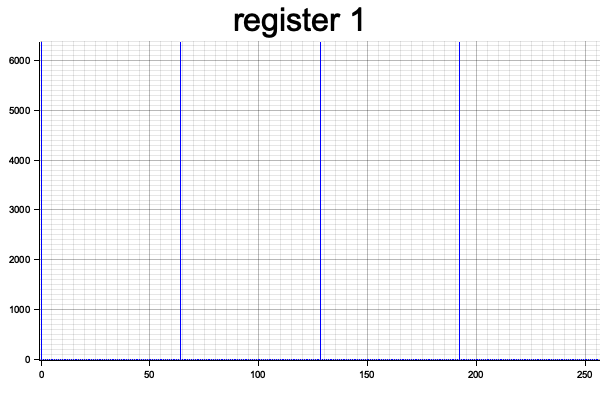
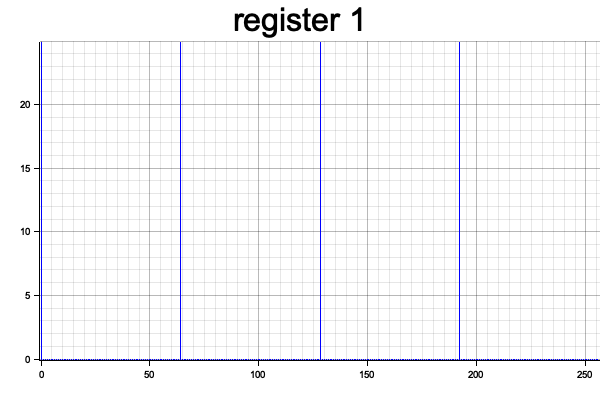
Fix normalization of rust fft

Changed region(s): [[0.0, 0.09, 0.99, 0.54], [0.0, 0.63, 0.99, 0.9], [0.03, 0.57, 0.99, 0.6]]

diff --git a/src/main.rs b/src/main.rs
@@ -13,8 +13,6 @@ mod baillie_psw_prime;
 mod prime_power_check;
 mod plots;
 
-
-
 use sieve_of_eratosthenes::sieve_of_eratosthenes;
 use is_even::is_even;
 use pseudo_prime::pseudo_prime;
@@ -37,7 +35,7 @@ fn main() {
     println!("Hello, Shor!");
 
     // Choose n to factorize
-    for n in [221_u64] {
+    for n in [15_u64, 35_u64, 69_u64, 221_u64] {
         println!("n = {}", n);
 
         // Step 1
@@ -91,6 +89,21 @@ fn main() {
                     let mut planner = FftPlanner::new();
                     let fft = planner.plan_fft_forward(reg1.len());
                     fft.process(&mut reg1);
+
+                    // re-normalize (needed for rustfft: https://docs.rs/rustfft/6.0.1/rustfft/)
+                    // TODO: check for correctness
+                    // TODO: can we vectorize this?
+                    let mut total_chance = 0.0;
+                    for i in 0..reg1.len() {
+                        total_chance += reg1[i].norm() * reg1[i].norm();
+                    }
+
+                    let nrm_factor = total_chance.sqrt();
+
+                    for i in 0..reg1.len() {
+                        reg1[i] = reg1[i] / nrm_factor;
+                    }
+
 
                     insert_quantum_register1(&reg1, &mut quantum_register);
 
